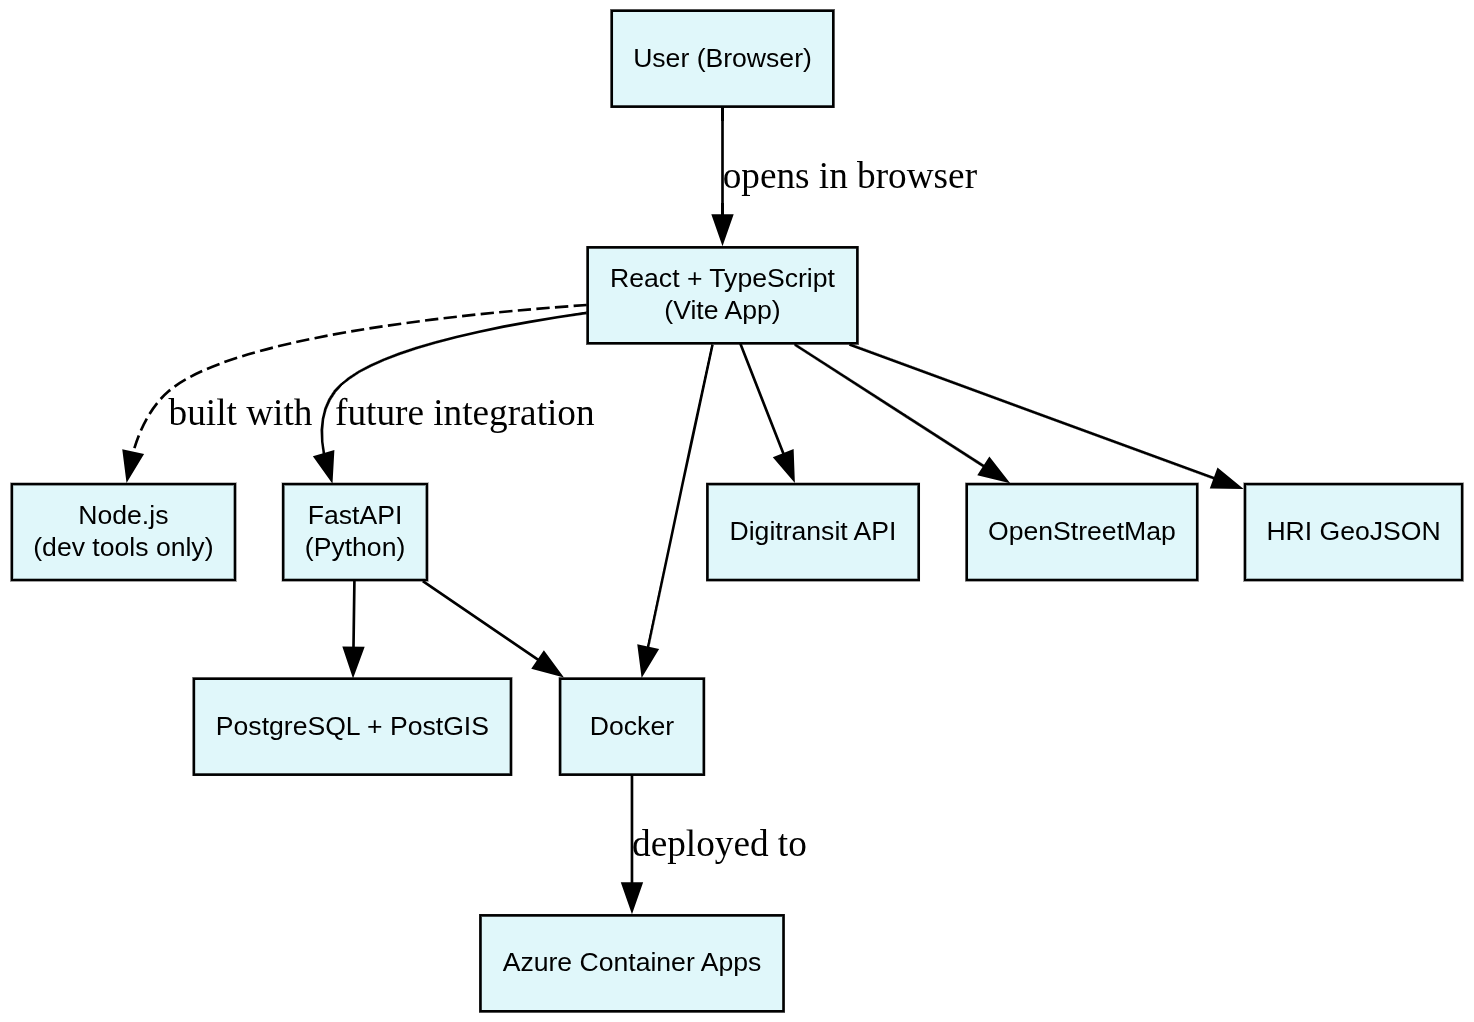
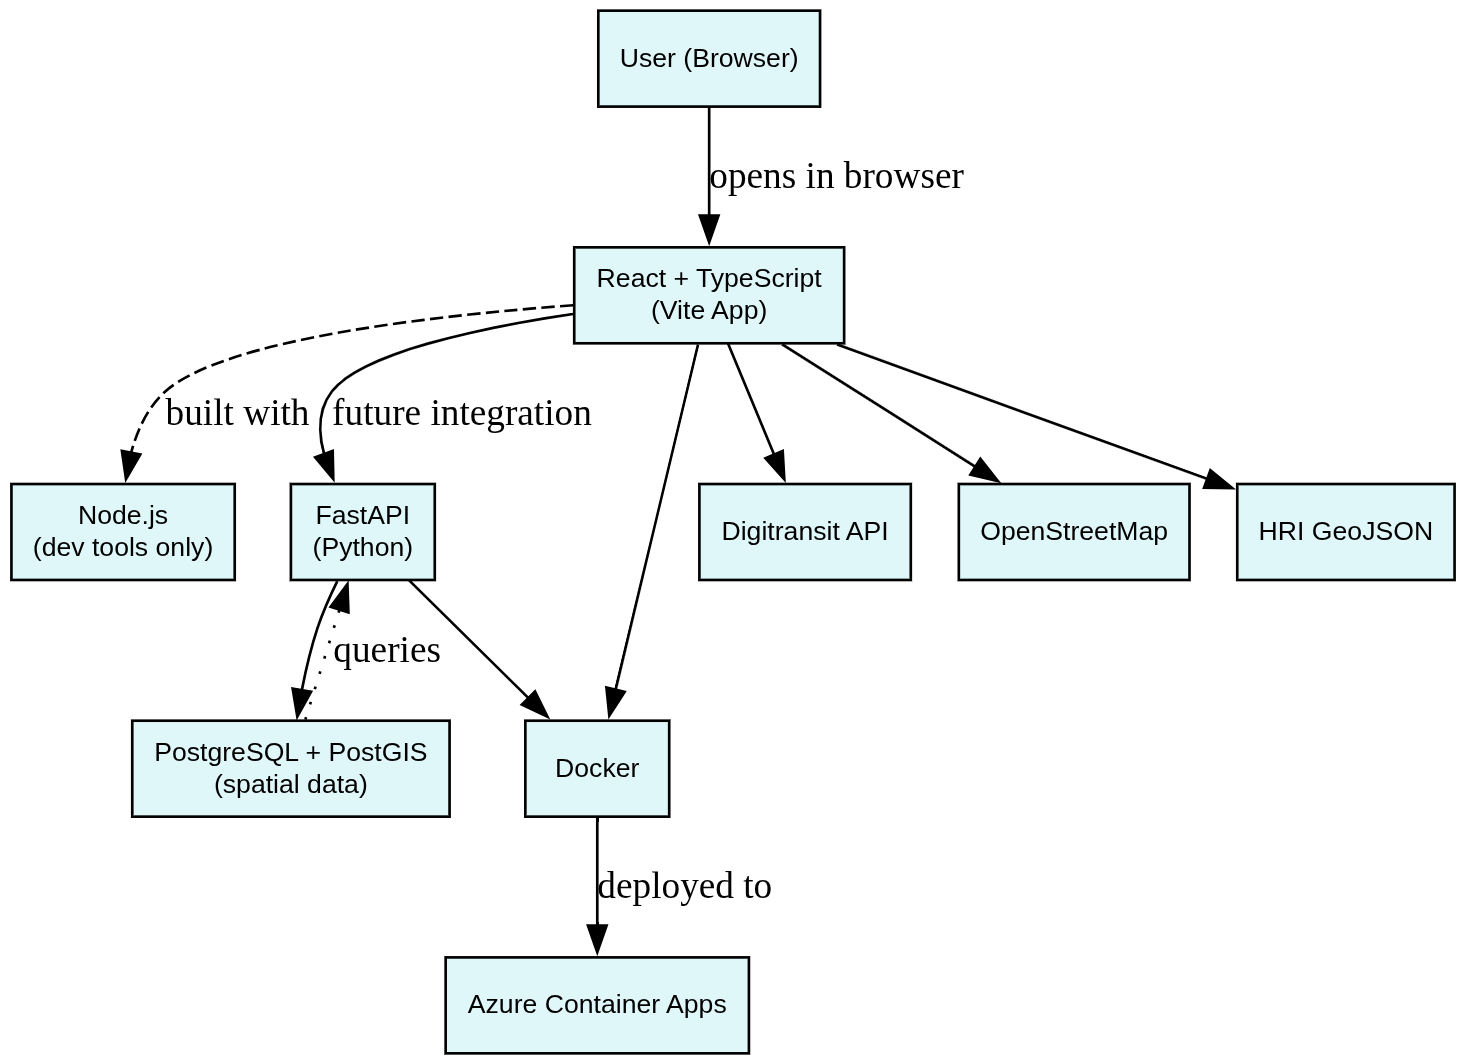
Update TechStack.png: improved PostGIS labeling and API flow

Changed region(s): [[0.0, 0.0, 1.0, 1.0], [0.6446, 0.364, 0.706, 0.3943], [0.6139, 0.3943, 0.6446, 0.4247]]

diff --git a/README.md b/README.md
@@ -19,6 +19,7 @@ with surface type visualization and smart routing using open data.
 - **Frontend:** React + Leaflet + Vite
 - **Backend:** FastAPI (Python)
 - **Database:** PostgreSQL + PostGIS
+- **GIS:** Location and surface data handled with GeoJSON and PostGIS
 - **Deployment:** Docker + Azure Containers
 
 ---
@@ -62,7 +63,7 @@ npm run dev
 
 ## 7. Solution Domain Overview
 
-> View or edit diagram: [https://is.gd/1QElLX](https://is.gd/1QElLX)
+> View or edit diagram: [https://is.gd/oo5vFi](https://is.gd/oo5vFi)
 
 ![Solution Architecture](docs/TechStack.png) 
 
@@ -71,5 +72,5 @@ npm run dev
 ## 8. Project Tracker
 
 For full task progress and status, see the  
-[📋 GitHub Project Board](https://github.com/users/VoxelPrincess/projects/3/views/1)
+[GitHub Project Board](https://github.com/users/VoxelPrincess/projects/3/views/1)
 

diff --git a/docs/solution_domain.md b/docs/solution_domain.md
@@ -31,13 +31,13 @@ The application helps users make more informed decisions when selecting cycling 
 
 ## 3. Architecture Snapshot
 
-Architecture diagram: https://is.gd/1QElLX
+Architecture diagram: https://is.gd/oo5vFi
 
 ![Solution Architecture](TechStack.png)
 
 - Frontend: React, Vite, Leaflet (TypeScript)
 - Backend: FastAPI (planned)
-- Database: PostgreSQL + PostGIS (future data storage)
+- Database: PostgreSQL + PostGIS (planned spatial storage for surface and route data)
 - APIs: Digitransit, OpenStreetMap, HRI GeoJSON
 - Deployment: Dockerized containers, Azure-hosted (planned)
 

diff --git a/docs/api_plan.md b/docs/api_plan.md
@@ -26,4 +26,10 @@
 - External routing: Digitransit GraphQL
 - (Optional) Internal API: FastAPI + PostgreSQL/PostGIS
 
+## 5. Storage Notes
+
+- Surface segments and routing data are stored as GeoJSON in a PostGIS-enabled PostgreSQL database.
+- Spatial queries (e.g. intersection, buffer, filtering by area) are planned for future analysis.
+
+
 [← Back to README](../README.md)
